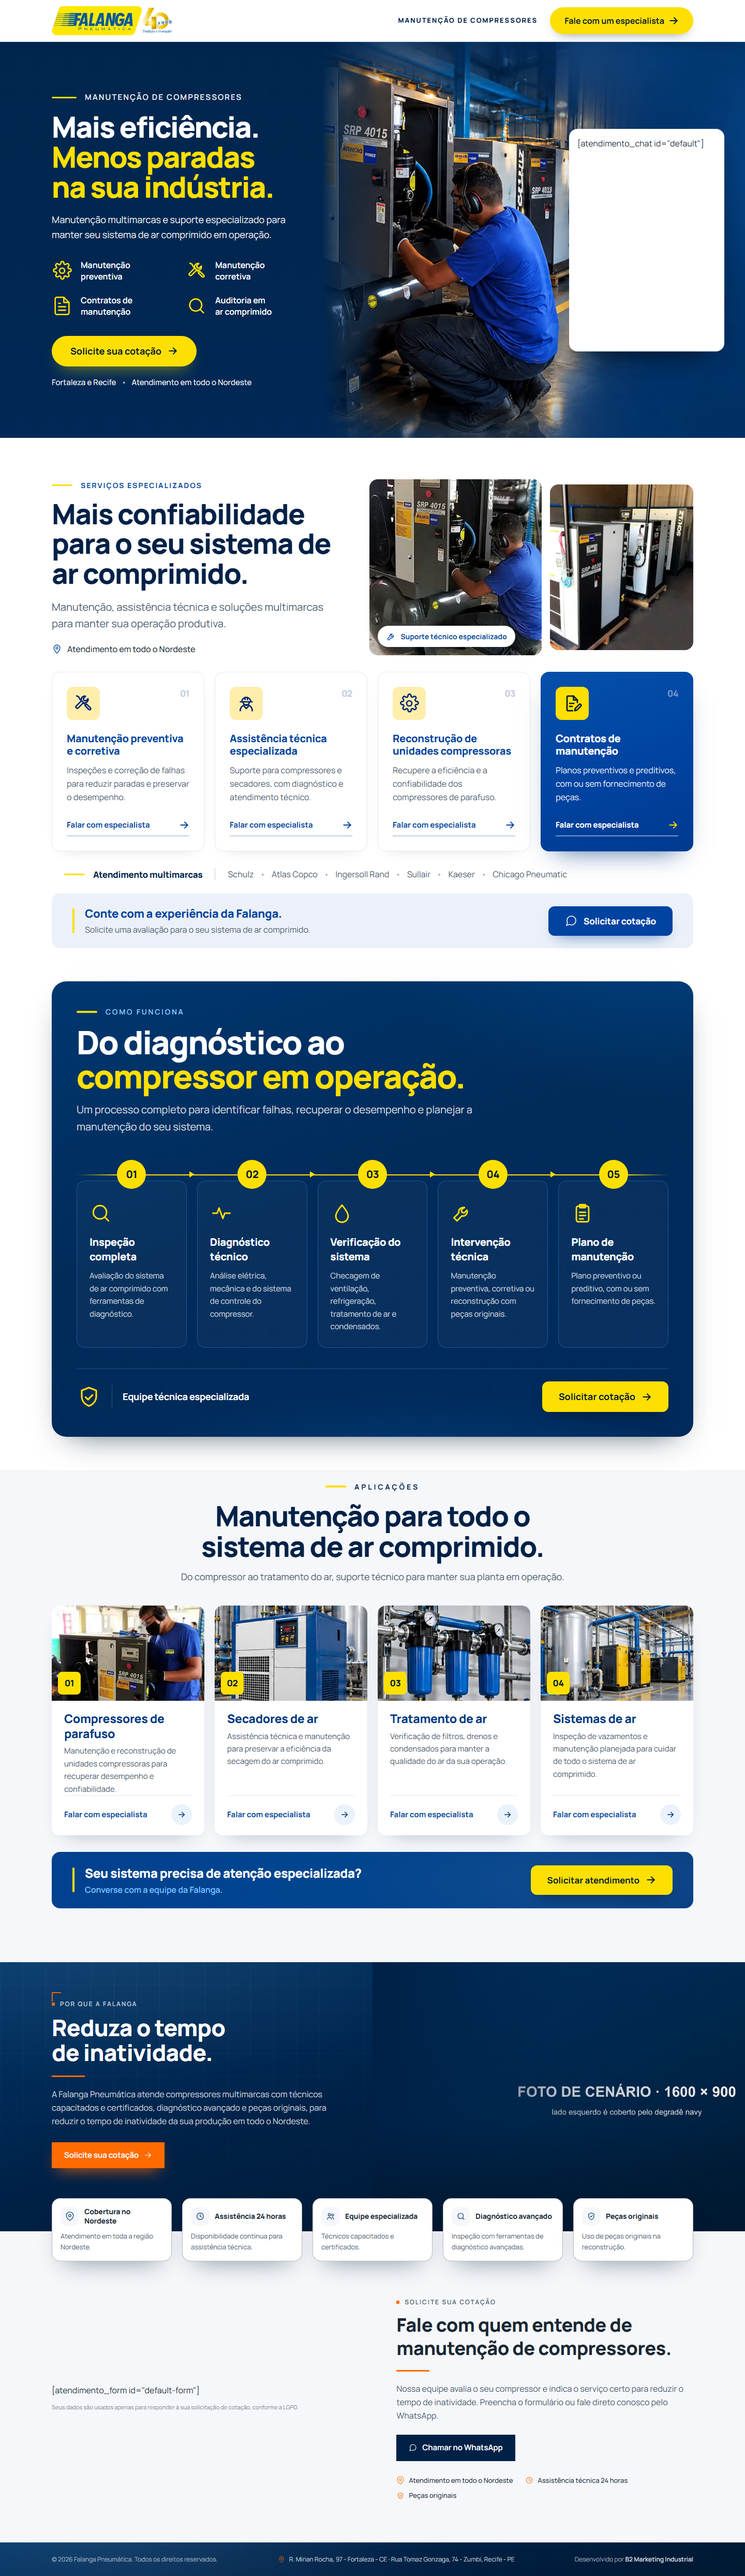
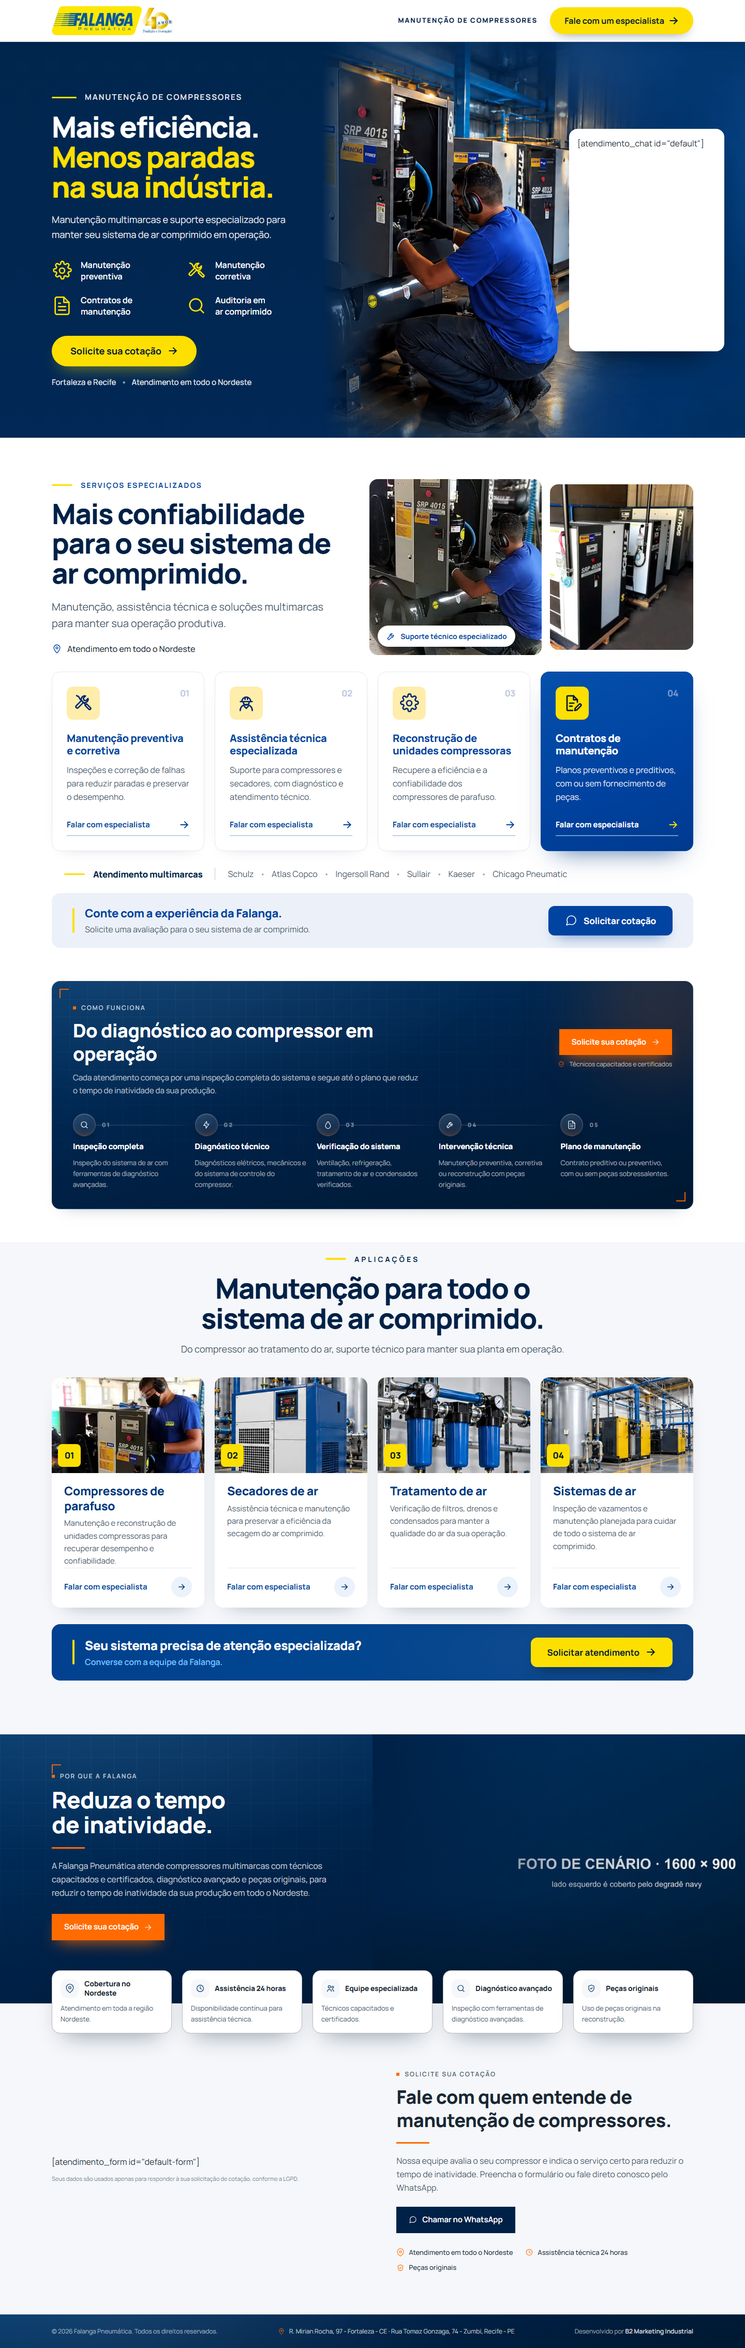
revert: volta o "Como funciona" para a versão anterior ao mockup
Desfaz c58ca84 a pedido do usuário: a seção processo volta ao painel navy
original, com a copy das etapas de antes, e saem os ícones pulse, clipboard e
shield-check. As aplicações (cd9747e) ficam como estão.

diff --git a/src/data/sections/processo.ts b/src/data/sections/processo.ts
@@ -6,9 +6,6 @@
  *
  * Sem `when`: o cliente ainda não confirmou prazos que assuma publicamente
  * (docs/BRIEFING.md, pendências). Prazo inventado não entra.
- *
- * Copy do mockup do cliente (21/10/2026): o fim do título vai em amarelo
- * (`highlight`), e o CTA da seção tem rótulo próprio (`cta`).
  */
 import type { IconName } from '@data/icons'
 
@@ -28,40 +25,34 @@ export interface ProcessStep {
 export interface Process {
   eyebrow: string
   title: string
-  /** Trecho final de `title` que vai em amarelo, em linha própria. */
-  highlight: string
   text: string
   microcopy: string
-  /** Rótulo do botão da seção. */
-  cta: string
   steps: readonly ProcessStep[]
 }
 
 export const process: Process = {
   eyebrow: 'Como funciona',
-  title: 'Do diagnóstico ao compressor em operação.',
-  highlight: 'compressor em operação.',
-  text: 'Um processo completo para identificar falhas, recuperar o desempenho e planejar a manutenção do seu sistema.',
-  microcopy: 'Equipe técnica especializada',
-  cta: 'Solicitar cotação',
+  title: 'Do diagnóstico ao compressor em operação',
+  text: 'Cada atendimento começa por uma inspeção completa do sistema e segue até o plano que reduz o tempo de inatividade da sua produção.',
+  microcopy: 'Técnicos capacitados e certificados',
   steps: [
     {
       id: 'inspecao',
       icon: 'search',
       title: 'Inspeção completa',
-      description: 'Avaliação do sistema de ar comprimido com ferramentas de diagnóstico.',
+      description: 'Inspeção do sistema de ar com ferramentas de diagnóstico avançadas.',
     },
     {
       id: 'diagnostico',
-      icon: 'pulse',
+      icon: 'bolt',
       title: 'Diagnóstico técnico',
-      description: 'Análise elétrica, mecânica e do sistema de controle do compressor.',
+      description: 'Diagnósticos elétricos, mecânicos e do sistema de controle do compressor.',
     },
     {
       id: 'verificacao',
       icon: 'droplet',
       title: 'Verificação do sistema',
-      description: 'Checagem de ventilação, refrigeração, tratamento de ar e condensados.',
+      description: 'Ventilação, refrigeração, tratamento de ar e condensados verificados.',
     },
     {
       id: 'intervencao',
@@ -71,9 +62,9 @@ export const process: Process = {
     },
     {
       id: 'plano',
-      icon: 'clipboard',
+      icon: 'file',
       title: 'Plano de manutenção',
-      description: 'Plano preventivo ou preditivo, com ou sem fornecimento de peças.',
+      description: 'Contrato preditivo ou preventivo, com ou sem peças sobressalentes.',
     },
   ],
 }

diff --git a/src/data/icons.ts b/src/data/icons.ts
@@ -56,14 +56,6 @@ export const iconPaths = {
   /** Documento com caneta: contrato de manutenção (mockup Falanga, 21/10/2026). */
   contract:
     '<path d="M13.5 3.5H7a1 1 0 0 0-1 1v15a1 1 0 0 0 1 1h5.5"/><path d="M13.5 3.5 18 8v3"/><path d="M13.5 3.5V8H18"/><path d="M9 12h5M9 15.5h3"/><path d="m15 20.5.5-2.6 4.6-4.6a1.3 1.3 0 0 1 1.9 1.9l-4.6 4.6Z"/>',
-  /** Linha de pulso: diagnóstico técnico (mockup Falanga, 21/10/2026). */
-  pulse: '<path d="M3 12h4.5l2-5.5 4 11 2-5.5H21"/>',
-  /** Prancheta com linhas: plano de manutenção (mockup Falanga, 21/10/2026). */
-  clipboard:
-    '<rect x="5.5" y="4.5" width="13" height="16.5" rx="2"/><path d="M9 3h6v3.2H9z"/><path d="M8.8 11h6.4M8.8 14.5h6.4M8.8 18h4"/>',
-  /** Escudo com check: selo de equipe especializada (mockup Falanga, 21/10/2026). */
-  'shield-check':
-    '<path d="M12 3 19 5.8v5.6c0 4.5-3 7.8-7 9.3-4-1.5-7-4.8-7-9.3V5.8Z"/><path d="m8.7 12.2 2.4 2.4 4.3-4.5"/>',
   clock: '<circle cx="12" cy="12" r="8.5"/><path d="M12 7v5.2l3.5 2"/>',
   zap: '<path d="M13 3 6 13.5h5L10 21l7.5-10.5h-5L13 3Z"/>',
   'map-pin':

diff --git a/docs/BRIEFING.md b/docs/BRIEFING.md
@@ -183,23 +183,6 @@ A Schulz entrou na lista de marcas da ficha e a família de palavras-chave Schul
 
 As fotos do site têm 450×451 e 680×682: servem na largura em que aparecem, mas ficam suaves em tela de alta densidade. Vale pedir os originais.
 
-## Desvios do padrão — como funciona (21/10/2026)
-
-A seção `processo` foi refeita conforme o mockup "Do diagnóstico ao compressor em operação", que o cliente enviou em 21/10/2026. É uma **variante local** de `src/components/sections/ProcessSteps.astro`, como as outras, e **`npm run compose` desfaz a variante**.
-
-| O que o mockup pedia                                                   | Como entrou                                                                        | Regra do padrão afetada         |
-| ---------------------------------------------------------------------- | ---------------------------------------------------------------------------------- | ------------------------------- |
-| Painel navy sem malha blueprint nem cantos laranja, com brilho azul    | igual; o painel continua sendo o bloco navy da primeira metade da página           | receita do painel navy (item 7) |
-| Fim do título em amarelo                                               | campo `highlight` em `processo.ts` e na ficha; em linha própria a partir do tablet | —                               |
-| Trilha com círculos amarelos numerados, linha e setas                  | igual a partir do desktop; no mobile, os cards empilham com o número no topo       | —                               |
-| Cada etapa num card contornado, com ícone amarelo                      | igual; ícones novos `pulse`, `clipboard` e `shield-check`                          | —                               |
-| Faixa final com "Equipe técnica especializada" e "Solicitar cotação →" | `microcopy` e o rótulo `cta` da seção; o botão é o `processo-cta`                  | vocabulário de CTA (item 8)     |
-| Logo da Falanga num card branco no canto                               | **não entrou** — a logo já está no header fixo                                     | —                               |
-
-A copy das cinco etapas foi trocada pela do mockup, sem prazos (`when`). O cliente ainda não confirmou prazos que assuma publicamente.
-
-O painel segue a largura do container do padrão (1320px). Por isso, em telas largas os títulos das etapas quebram em duas linhas, onde o mockup, mais largo, mostra uma.
-
 ## Desvios do padrão — aplicações (21/10/2026)
 
 A seção `aplicacoes` foi refeita conforme o mockup "Manutenção para todo o sistema de ar comprimido", que o cliente enviou em 21/10/2026. É uma **variante local** de `src/components/sections/ApplicationsGallery.astro`, e **`npm run compose` desfaz a variante**.

diff --git a/docs/FICHA-LP.md b/docs/FICHA-LP.md
@@ -215,32 +215,30 @@ blocos:
     responde: [manutencao, assistencia]
     papeis: [Manutenção, Engenharia]
     eyebrow: Como funciona
-    title: Do diagnóstico ao compressor em operação.
-    highlight: compressor em operação.
-    microcopy: Equipe técnica especializada
-    text: Um processo completo para identificar falhas, recuperar o desempenho e planejar a manutenção do seu sistema.
-    cta: Solicitar cotação
+    title: Do diagnóstico ao compressor em operação
+    microcopy: Técnicos capacitados e certificados
+    text: Cada atendimento começa por uma inspeção completa do sistema e segue até o plano que reduz o tempo de inatividade da sua produção.
     steps:
       - id: inspecao
         icon: search
         title: Inspeção completa
-        description: Avaliação do sistema de ar comprimido com ferramentas de diagnóstico.
+        description: Inspeção do sistema de ar com ferramentas de diagnóstico avançadas.
       - id: diagnostico
-        icon: pulse
+        icon: bolt
         title: Diagnóstico técnico
-        description: Análise elétrica, mecânica e do sistema de controle do compressor.
+        description: Diagnósticos elétricos, mecânicos e do sistema de controle do compressor.
       - id: verificacao
         icon: droplet
         title: Verificação do sistema
-        description: Checagem de ventilação, refrigeração, tratamento de ar e condensados.
+        description: Ventilação, refrigeração, tratamento de ar e condensados verificados.
       - id: intervencao
         icon: wrench
         title: Intervenção técnica
         description: Manutenção preventiva, corretiva ou reconstrução com peças originais.
       - id: plano
-        icon: clipboard
+        icon: file
         title: Plano de manutenção
-        description: Plano preventivo ou preditivo, com ou sem fornecimento de peças.
+        description: Contrato preditivo ou preventivo, com ou sem peças sobressalentes.
 
   aplicacoes:
     veredicto: completo
